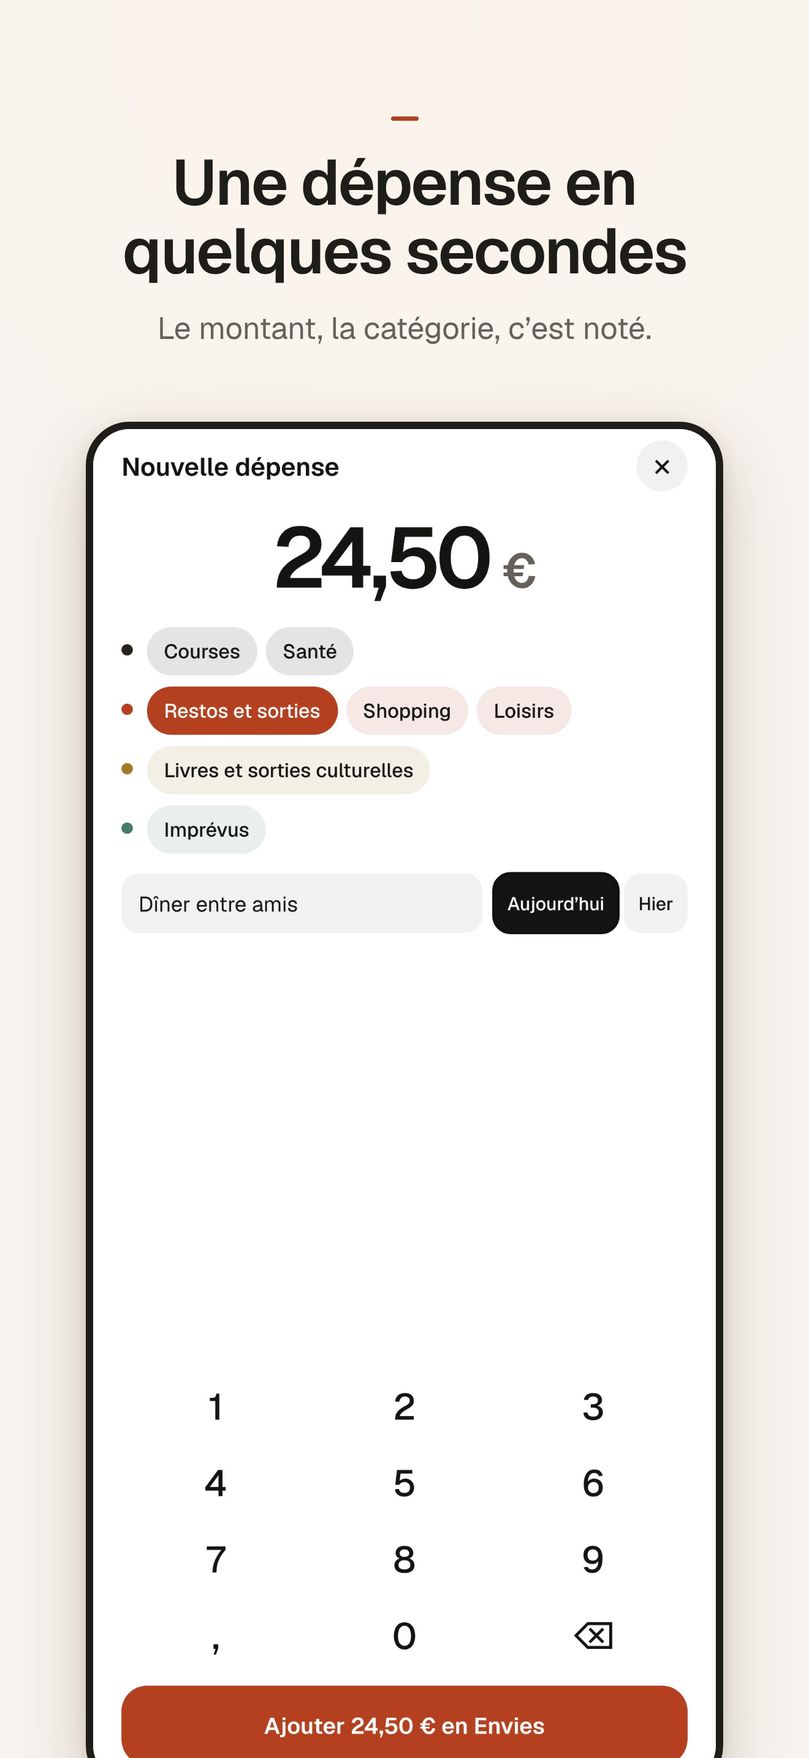
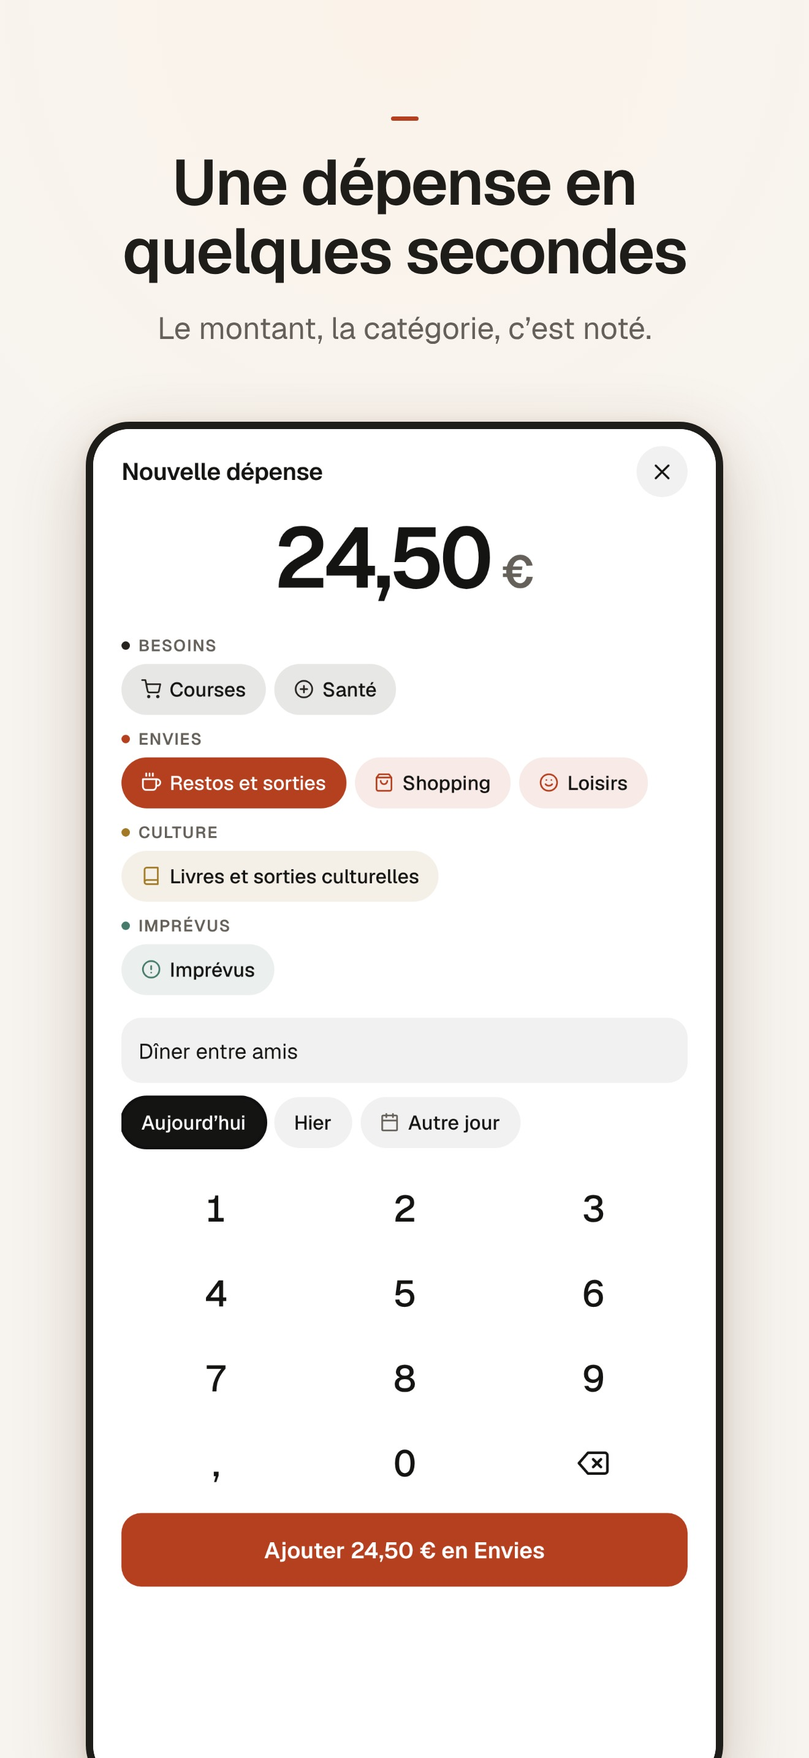
Documentation et captures : sauvegarde, fiabilité, statut de l'audit, fiches des stores, nouvelles captures
Claude-Session: https://claude.ai/code/session_01KjhfjXB1He58QrU5LuyAPP

diff --git a/store/texts.js b/store/texts.js
@@ -7,36 +7,40 @@ const description = `Nokori vous dit ce qu’il vous reste vraiment à dépenser
 Nokori suit la méthode kakeibo, le carnet de comptes japonais : chaque dépense va dans l’un des quatre piliers, Besoins, Envies, Culture et Imprévus, et chaque mois se termine par quatre questions simples.
 
 LE BUDGET DU MOIS
-• Ce qu’il reste à dépenser, et combien par jour jusqu’à la fin du mois.
+• L’argent vraiment disponible, prélèvements à venir déduits, et combien par jour jusqu’à la fin du mois.
 • Une estimation de ce qui restera à la fin du mois si vous continuez au même rythme.
 • Les quatre piliers kakeibo, avec ce qui a été dépensé et ce qui reste pour chacun.
 
 UNE DÉPENSE EN QUELQUES SECONDES
 • Un pavé numérique, une catégorie, et c’est noté.
-• Aujourd’hui ou hier, avec un libellé si vous voulez.
-• « Annuler » juste après, en cas d’erreur.
+• Aujourd’hui, hier ou un autre jour, avec un libellé si vous voulez.
+• « Annuler » juste après, en cas d’erreur ; un montant inhabituel est signalé.
 
 LE CALENDRIER
-• Du mois dernier jusqu’à dans trois mois : la paie, le loyer, les abonnements et vos dépenses, jour par jour.
+• Deux ans en arrière, un an en avant : la paie, le loyer, les abonnements et vos dépenses, jour par jour.
 • Chaque mois a sa couleur, inspirée des saisons japonaises.
 
 L’ACTIVITÉ ET LES COMPTES
-• Toutes vos dépenses et charges passées, filtrées par pilier.
+• Tout l’historique, mois par mois, avec une recherche et des filtres par pilier.
+• Une dépense se modifie ou se supprime, avec « Annuler ».
 • Les dépenses qui reviennent souvent sont repérées.
 • Les soldes de vos comptes, saisis à la main : compte courant, livrets, placements, espèces.
 
 VOS OBJECTIFS
 • Un voyage, une voiture, une épargne de précaution : Nokori calcule la date d’arrivée et la recalcule à chaque dépense.
+• Chaque versement noté, avec sa date, et le versement du mois suivi.
 • Des défis kakeibo : une semaine sans envies, des jours sous le budget du jour.
 
 LE BILAN DU MOIS
 • Combien ai-je reçu ? Combien voulais-je épargner ? Combien ai-je dépensé ? Comment faire mieux ?
+• La comparaison avec le mois précédent et les dépenses par catégorie, calculées sur vos saisies.
 • Le mois écoulé se revoit en story, en cinq écrans.
 
 VOS DONNÉES RESTENT SUR VOTRE TÉLÉPHONE
 • Aucun compte à créer, aucune banque à connecter, aucun serveur.
 • Tout est enregistré dans une base chiffrée, sur votre téléphone uniquement.
 • Verrouillage par Face ID, Touch ID ou empreinte, et montants masquables pour ouvrir l’app en public.
+• Une sauvegarde chiffrée par une phrase secrète, pour changer de téléphone sans rien perdre.
 • Sans publicité et sans pistage.
 • Des rappels avant chaque prélèvement, sans aucun montant dans la notification.
 

diff --git a/store/seed.js b/store/seed.js
@@ -1,4 +1,4 @@
-// Données d'exemple des captures d'écran : un mois de novembre 2026 crédible, figé au 14.
+// Données d'exemple des captures d'écran des stores uniquement (jamais dans l'app) : septembre à novembre 2026, figé au 14 novembre.
 module.exports = {
   v: 1, dismissed: [], notes: { '2026-10': 'Cuisiner le dimanche pour la semaine' },
   prefs: { theme: 'auto', lock: true, hideAmounts: false, alerts: true },
@@ -15,6 +15,12 @@ module.exports = {
     ],
   },
   expenses: [
+    { id: 's1', date: '2026-09-05', label: 'Courses', categoryId: 'courses', amount: 9150 },
+    { id: 's2', date: '2026-09-12', label: 'Restaurant', categoryId: 'restos', amount: 6400 },
+    { id: 's3', date: '2026-09-14', label: 'Courses', categoryId: 'courses', amount: 8820 },
+    { id: 's4', date: '2026-09-20', label: 'Concert', categoryId: 'culture', amount: 4500 },
+    { id: 's5', date: '2026-09-26', label: 'Courses', categoryId: 'courses', amount: 7930 },
+    { id: 's6', date: '2026-09-28', label: 'Chaussures', categoryId: 'shopping', amount: 8900 },
     { id: 'o1', date: '2026-10-03', label: 'Courses', categoryId: 'courses', amount: 8240 },
     { id: 'o2', date: '2026-10-08', label: 'Pharmacie', categoryId: 'sante', amount: 1290 },
     { id: 'o3', date: '2026-10-10', label: 'Courses', categoryId: 'courses', amount: 7615 },

diff --git a/store/raw.js b/store/raw.js
@@ -31,7 +31,7 @@ const out = n => path.join(__dirname, 'raw', `${theme}-${n}.png`);
   await p.getByRole('tab', { name: /Objectifs/ }).click(); await W(600);
   await shot('4-objectifs');
   await p.getByRole('tab', { name: /Bilan/ }).click(); await W(500);
-  await p.getByRole('tab', { name: 'Octobre' }).click(); await W(500);
+  await p.getByRole('button', { name: 'Bilan : mois d’avant' }).click(); await W(500);
   await shot('5-bilan');
   await p.getByRole('tab', { name: /Comptes/ }).click(); await W(600);
   await shot('6-comptes');

diff --git a/SECURITY.md b/SECURITY.md
@@ -22,6 +22,21 @@ Nokori est une app de suivi de budget **manuelle** : elle ne se connecte à aucu
 | Notifications lues sur l’écran verrouillé | Les rappels de prélèvement ne contiennent **aucun montant**. |
 | Fuite par le réseau | L’app ne fait aucun appel réseau, un test le vérifie à chaque lancement. Sur Android, les versions distribuées n’ont même pas la permission Internet. |
 
+## Sauvegarde chiffrée
+
+- **Fichier** : créé seulement quand l’utilisateur le demande (Réglages › Sauvegarde et restauration), proposé par la feuille de partage du téléphone, puis effacé du cache de l’app. Nokori ne l’envoie nulle part.
+- **Chiffrement** : clé dérivée de la phrase secrète par scrypt (N = 2^15, r = 8, p = 1 ; sel aléatoire de 16 octets), données chiffrées en AES-256-GCM (nonce aléatoire de 12 octets). L’en-tête (version, paramètres, date) est authentifié : toute modification du fichier est détectée. Bibliothèques `@noble/hashes` et `@noble/ciphers` 2.4.0, versions figées, auditées par Cure53, sans dépendance ni code natif.
+- **Phrase secrète** : 8 caractères au moins, jamais enregistrée. Perdue, la sauvegarde ne peut plus être ouverte.
+- **Restauration** : le fichier est vérifié avant tout calcul (format, version, paramètres bornés pour éviter un épuisement de mémoire), puis chaque donnée est validée comme au démarrage. Un résumé est affiché et l’utilisateur confirme avant le remplacement. Le verrouillage et les rappels sont désactivés après restauration, car ils dépendent du téléphone.
+- **Tests** : `src/domain/__tests__/backup.test.ts` (13 tests : aller-retour, mauvaise phrase, octet modifié, en-tête trafiqué, faux fichier, version future, paramètres démesurés) et `e2e/backup.e2e.js` (parcours complet dans le navigateur).
+
+## Fiabilité des données
+
+- **Lecture** : trois cas distincts. Rien d’enregistré (premier lancement), données relues, ou données illisibles (fichier abîmé, version plus récente de l’app). Dans le dernier cas, rien n’est réécrit : une copie est gardée et l’utilisateur choisit (restaurer une sauvegarde, réessayer après une mise à jour, ou repartir de zéro après confirmation).
+- **Stockage indisponible** (trousseau verrouillé, erreur SQLite) : écran « Réessayer » au lieu du questionnaire de départ. Avant ce correctif, répondre au questionnaire pouvait écraser toutes les données.
+- **Écritures** : en file, dans l’ordre ; un échec affiche un bandeau. Double appui sans effet.
+- **SQLCipher** : `PRAGMA temp_store = MEMORY` (pas de fichier temporaire de tri sur le disque) et `PRAGMA secure_delete = ON` (le contenu effacé est réellement écrasé).
+
 ## Ce qui est vérifié automatiquement
 
 `src/__tests__/security.test.js` échoue si le code contient :
@@ -39,11 +54,13 @@ Il vérifie aussi la clé liée à l’appareil, le refus d’écrire sans chiff
 - **Dépendances** (`npm audit`) : 3 alertes modérées, toutes dans `minimatch` via `@expo/fingerprint`, un outil de compilation qui n’est pas embarqué dans l’app.
 - **Secrets** : aucune clé ni aucun mot de passe dans le code ou la configuration.
 - **Android** (vérifié par prebuild) : `READ_EXTERNAL_STORAGE`, `WRITE_EXTERNAL_STORAGE` et `SYSTEM_ALERT_WINDOW` sont retirées. Restent la biométrie (`USE_BIOMETRIC`, `USE_FINGERPRINT`), `VIBRATE`, les notifications (ajoutée par la bibliothèque) et `INTERNET`, qu’Expo ajoute par défaut et dont la version de développement a besoin pour se connecter à l’ordinateur. `allowBackup="false"`. Dans les versions bêta (`preview`) et stores (`production`), `app.config.js` retire aussi `INTERNET` : l’app ne peut matériellement pas accéder au réseau (vérifié par prebuild et par un test).
-- **iOS** (vérifié par prebuild) : le texte d’autorisation Face ID est présent. `PrivacyInfo.xcprivacy` déclare l’absence de suivi et de données collectées. `ITSAppUsesNonExemptEncryption` vaut `false`.
+- **Modules de fichiers** (sauvegarde) : le prebuild de production du 15 novembre 2026 confirme que `expo-document-picker`, `expo-sharing` et `expo-file-system` n’ajoutent aucune permission Android restante : `INTERNET`, `READ_EXTERNAL_STORAGE` et `WRITE_EXTERNAL_STORAGE` sont retirées. `expo-file-system` embarque son propre manifeste de confidentialité iOS.
+- **iOS** (vérifié par prebuild) : application pour iPhone uniquement (`TARGETED_DEVICE_FAMILY = 1`). Le texte d’autorisation Face ID est présent. `PrivacyInfo.xcprivacy` déclare l’absence de suivi et de données collectées. `ITSAppUsesNonExemptEncryption` vaut `false`.
 
 ## Points à confirmer avant publication
 
 - **Chiffrement et export.** Nokori n’utilise le chiffrement que pour protéger ses propres données sur le téléphone, avec un algorithme standard. C’est en principe une utilisation exemptée de déclaration d’export aux États-Unis, d’où `usesNonExemptEncryption: false`. App Store Connect pose aussi une question sur la distribution en **France** : la même exemption s’applique en général aux usages de protection des données, mais à relire au moment de remplir le formulaire.
+- **SQLCipher sur un vrai téléphone.** Le chiffrement ne se vérifie que sur une version compilée (EAS Build) : au lancement, aucun avertissement « SQLCipher absent » ne doit apparaître, et l’app refuse d’écrire sans chiffrement. À contrôler une fois sur iPhone et sur Android (voir docs/BETA.md).
 - **Version web.** C’est une version de test, à partager avec des testeurs, pas une version publique. Elle n’a ni serveur ni accès réseau : les données restent dans le navigateur de chacun, mais en clair (`localStorage`), sans verrouillage ni rappels. Elle le dit dès le premier écran et dans les réglages, et demande aux moteurs de recherche de ne pas l’indexer (`noindex`). Pour de vrais chiffres, l’app pour téléphone reste la référence.
 
 ## Signaler un problème

diff --git a/store/FICHES.md b/store/FICHES.md
@@ -34,43 +34,47 @@ Nokori : budget kakeibo
 
 Ce qu’il vous reste à dépenser, au jour près. Vos données restent chez vous.
 
-## Description complète, commune aux deux stores (2282 caractères sur 4000)
+## Description complète, commune aux deux stores (2702 caractères sur 4000)
 
 Nokori vous dit ce qu’il vous reste vraiment à dépenser ce mois-ci, au jour près. Vos charges fixes et votre épargne sont déjà retirées : le chiffre que vous voyez est celui que vous pouvez dépenser.
 
 Nokori suit la méthode kakeibo, le carnet de comptes japonais : chaque dépense va dans l’un des quatre piliers, Besoins, Envies, Culture et Imprévus, et chaque mois se termine par quatre questions simples.
 
 LE BUDGET DU MOIS
-• Ce qu’il reste à dépenser, et combien par jour jusqu’à la fin du mois.
+• L’argent vraiment disponible, prélèvements à venir déduits, et combien par jour jusqu’à la fin du mois.
 • Une estimation de ce qui restera à la fin du mois si vous continuez au même rythme.
 • Les quatre piliers kakeibo, avec ce qui a été dépensé et ce qui reste pour chacun.
 
 UNE DÉPENSE EN QUELQUES SECONDES
 • Un pavé numérique, une catégorie, et c’est noté.
-• Aujourd’hui ou hier, avec un libellé si vous voulez.
-• « Annuler » juste après, en cas d’erreur.
+• Aujourd’hui, hier ou un autre jour, avec un libellé si vous voulez.
+• « Annuler » juste après, en cas d’erreur ; un montant inhabituel est signalé.
 
 LE CALENDRIER
-• Du mois dernier jusqu’à dans trois mois : la paie, le loyer, les abonnements et vos dépenses, jour par jour.
+• Deux ans en arrière, un an en avant : la paie, le loyer, les abonnements et vos dépenses, jour par jour.
 • Chaque mois a sa couleur, inspirée des saisons japonaises.
 
 L’ACTIVITÉ ET LES COMPTES
-• Toutes vos dépenses et charges passées, filtrées par pilier.
+• Tout l’historique, mois par mois, avec une recherche et des filtres par pilier.
+• Une dépense se modifie ou se supprime, avec « Annuler ».
 • Les dépenses qui reviennent souvent sont repérées.
 • Les soldes de vos comptes, saisis à la main : compte courant, livrets, placements, espèces.
 
 VOS OBJECTIFS
 • Un voyage, une voiture, une épargne de précaution : Nokori calcule la date d’arrivée et la recalcule à chaque dépense.
+• Chaque versement noté, avec sa date, et le versement du mois suivi.
 • Des défis kakeibo : une semaine sans envies, des jours sous le budget du jour.
 
 LE BILAN DU MOIS
 • Combien ai-je reçu ? Combien voulais-je épargner ? Combien ai-je dépensé ? Comment faire mieux ?
+• La comparaison avec le mois précédent et les dépenses par catégorie, calculées sur vos saisies.
 • Le mois écoulé se revoit en story, en cinq écrans.
 
 VOS DONNÉES RESTENT SUR VOTRE TÉLÉPHONE
 • Aucun compte à créer, aucune banque à connecter, aucun serveur.
 • Tout est enregistré dans une base chiffrée, sur votre téléphone uniquement.
 • Verrouillage par Face ID, Touch ID ou empreinte, et montants masquables pour ouvrir l’app en public.
+• Une sauvegarde chiffrée par une phrase secrète, pour changer de téléphone sans rien perdre.
 • Sans publicité et sans pistage.
 • Des rappels avant chaque prélèvement, sans aucun montant dans la notification.
 

diff --git a/docs/AUDIT.md b/docs/AUDIT.md
@@ -73,3 +73,29 @@ Priorités : **P0** perte de données, faille de sécurité ou chiffre faux affi
 - **Couleurs hors palette** : 11 valeurs hexadécimales et 8 valeurs rgba codées en dur, dont l’ancien vermillon `rgba(188,68,35,…)` à 7 endroits. `MonthStory` et le sceau d’épargne utilisent la palette claire même en mode sombre.
 - **Animations** : un seul effet animé (l’éclat du pilier, sans pilote natif). Les éditeurs, les confirmations, le toast et les barres de progression apparaissent ou changent d’un coup.
 - **Icônes** : Feather à 3 endroits seulement ; ailleurs, des caractères texte sans police définie.
+
+## 7. Statut au 15 novembre 2026, après corrections
+
+| # | Statut | Ce qui a été fait |
+| --- | --- | --- |
+| D1 | Corrigé | Écran « Réessayer » à la place de l’accueil ; aucune écriture tant que rien n’est chargé (`state/AppState.tsx`, `ui/DataProblem.tsx`). |
+| D2 | Corrigé | Lecture en trois états ; donnée illisible copiée à part, jamais écrasée ; version future refusée (`data/persist.ts`). |
+| D3 | Corrigé | Boutons bloqués pendant l’enregistrement, identifiant déjà présent ignoré, écritures en file. |
+| D4 | Corrigé | Mois des charges annuelles et échéance des charges à 4 semaines conservés (`domain/onboarding.ts`). |
+| D5 | Corrigé | Historique du profil par mois, utilisé par le bilan, le calendrier et l’activité (`domain/history.ts`). |
+| D6 | Corrigé | Sauvegarde chiffrée, restauration depuis les réglages et dès l’accueil d’un nouveau téléphone. |
+| D7 | Restant | Un seul bloc JSON : suffisant pour plusieurs années de saisie (50 000 dépenses relues au plus). À revoir si besoin. |
+| S1 | Corrigé | Verrou enclenché dès l’ouverture, Face ID demandé tout de suite (`ui/LockGate.tsx`). |
+| S2 | Corrigé | Masquage centralisé (`ui/money.tsx`) : tous les écrans, la story comprise ; vérifié par un test de bout en bout. |
+| S3 | Corrigé | `temp_store = MEMORY`, `secure_delete = ON`. |
+| S5 | Restant | Vérification de SQLCipher sur un vrai téléphone (version compilée) : à faire à la main. |
+| C1 | Corrigé | Le grand chiffre est l’argent disponible, prélèvements à venir déduits. |
+| C2 | Corrigé | « Budget dépassé de … », 0 € par jour. |
+| C3 | Corrigé | Projection complétée par le rythme prévu les 7 premiers jours, marquée « estimation ». |
+| C4 | Restant | Budget au mois civil (choix kakeibo) ; « autres revenus » conservés mais pas encore saisissables. |
+| F1 | Corrigé | Activité mois par mois depuis la première dépense, recherche, modification, suppression annulable. |
+| F2 | Corrigé | Calendrier de −24 à +12 mois, bouton « Revenir à aujourd’hui ». |
+| F3 | Corrigé | Bilan de n’importe quel mois, comparaison au même jour avec le mois précédent, dépenses par catégorie. |
+| F4 | Corrigé | Historique des versements, versement du mois, paliers. |
+| F5 | Corrigé | Date jusqu’à 62 jours en arrière, montant inhabituel signalé. |
+| U1 à U5 | Corrigé | Système de design (`theme/tokens.ts`) et composants communs (`ui/kit.tsx`) sur tous les écrans ; icônes Feather ; aplats de couleur ; état de chargement ; confirmations animées. |

diff --git a/README.md b/README.md
@@ -30,7 +30,7 @@ npm run e2e        # parcours complets dans la version web : accueil, dépense, 
 | `src/state` | État de l'app et enregistrement automatique |
 | `src/domain/__tests__` | Tests du moteur |
 | `src/theme` | Palettes claire et sombre, contexte de thème, typographie |
-| `src/ui` | Composants : carte du mois, liste des piliers |
+| `src/ui` | Composants communs (`kit.tsx` : boutons, cartes, lignes, puces, onglets, états vides, toasts), carte du mois, piliers, calendrier, verrou, affichage des montants (`money.tsx`) |
 | `src/screens` | Écrans |
 | `e2e` | Captures et tests dans la version web |
 | `store` | Fiches des stores (`texts.js`, `FICHES.md`), captures d’écran et leurs scripts |
@@ -90,4 +90,7 @@ Le chiffrement SQLCipher n'existe pas dans Expo Go : pour tester la vraie app, i
 - [x] 11b : accessibilité : audit automatique de 26 écrans, contrastes renforcés (teintes de 7 mois, vermillon, texte secondaire), noms des boutons, story sans défilement automatique pour VoiceOver/TalkBack et « Réduire les animations », grands chiffres plafonnés
 - [x] 11c : préparation de la bêta : `eas.json` (développement, bêta interne, stores), icône et écran de démarrage 残, permission Internet retirée des versions distribuées sur Android, politique de confidentialité et conditions ([docs/](docs)), guide [docs/BETA.md](docs/BETA.md)
 - [x] 12 : publication préparée : textes des fiches App Store et Google Play (limites vérifiées par un test), fiche App Store envoyée par `eas metadata:push` (`store.config.js`), 6 captures iPhone et Android, image de présentation, page d’assistance, guide [docs/PUBLICATION.md](docs/PUBLICATION.md). App réglée pour iPhone seulement. Une base restaurée par iCloud sans sa clé ne bloque plus l’app
+- [x] 13 : audit complet ([docs/AUDIT.md](docs/AUDIT.md)) et corrections : plus aucun risque d’écrasement des données au démarrage, verrou Face ID au démarrage, montant disponible juste, historique du profil, masquage de tous les montants
+- [x] 14 : sauvegarde chiffrée (phrase secrète, scrypt + AES-256-GCM), restauration depuis les réglages ou dès l’accueil d’un nouveau téléphone
+- [x] 15 : refonte de l’interface (système de design, composants communs, icônes) et nouvelles fonctions : historique complet et recherche, modification d’une dépense, suppression annulable, calendrier libre, bilan comparé et par catégorie, historique des versements
 - [ ] Sortie : comptes, pages publiques, envoi aux stores (à faire par vous, voir docs/PUBLICATION.md)

diff --git a/docs/confidentialite.md b/docs/confidentialite.md
@@ -13,7 +13,7 @@ Nokori est une application de suivi de budget. Elle est éditée par **[votre no
 Vos revenus, charges fixes, dépenses, soldes de comptes, objectifs d’épargne, notes et réglages sont enregistrés **uniquement sur votre téléphone**, dans une base chiffrée (AES-256). La clé de chiffrement est conservée dans le trousseau sécurisé du téléphone et n’en sort jamais.
 
 - Ces données ne sont envoyées à aucun serveur : l’application ne communique pas avec Internet.
-- La clé qui les déchiffre ne quitte jamais votre téléphone, ni dans les sauvegardes iCloud ou Google, ni ailleurs : une sauvegarde ne permet pas de les relire sur un autre appareil. Si vous changez de téléphone, elles ne suivent pas.
+- La clé qui les déchiffre ne quitte jamais votre téléphone, ni dans les sauvegardes iCloud ou Google, ni ailleurs : une sauvegarde ne permet pas de les relire sur un autre appareil. Pour changer de téléphone, utilisez la sauvegarde chiffrée (ci-dessous).
 - Nokori ne se connecte à aucune banque et ne déplace pas d’argent.
 
 ## Ce que nous ne faisons pas
@@ -24,6 +24,7 @@ Vos revenus, charges fixes, dépenses, soldes de comptes, objectifs d’épargne
 
 ## Autorisations demandées
 
+- **Fichiers** (facultatif) : seulement quand vous créez ou restaurez une sauvegarde. Le fichier de sauvegarde est chiffré par une phrase secrète que vous choisissez ; c’est vous qui décidez où le ranger (Fichiers, iCloud Drive, Google Drive, ordinateur…). Nous ne le recevons jamais et ne pouvons pas l’ouvrir.
 - **Face ID / Touch ID / empreinte** (facultatif) : pour verrouiller l’application. La reconnaissance est faite par le téléphone. Nokori reçoit seulement la réponse « reconnu » ou « non reconnu ».
 - **Notifications** (facultatif) : pour vous rappeler un prélèvement à venir. Les rappels sont programmés sur le téléphone et ne contiennent aucun montant.
 

diff --git a/docs/assistance.md b/docs/assistance.md
@@ -14,7 +14,10 @@ Une question, un problème, une idée ? Écrivez à **[adresse e-mail de contact
 Non. Nokori n’a pas de serveur et ne se connecte à aucune banque. Tout reste sur votre téléphone, dans une base chiffrée.
 
 **J’ai changé de téléphone : comment retrouver mes données ?**
-Ce n’est pas possible dans cette version. Les données sont chiffrées avec une clé qui ne quitte jamais l’ancien téléphone : même une sauvegarde iCloud ou Google ne permet pas de les relire ailleurs. Il faut ressaisir son budget sur le nouveau téléphone, ce qui prend quelques minutes.
+Avec la sauvegarde chiffrée. Sur l’ancien téléphone : Réglages › Sauvegarde et restauration › Créer une sauvegarde, puis rangez le fichier (iCloud Drive, Google Drive, e-mail à vous-même…). Sur le nouveau : installez Nokori, touchez « J’ai déjà une sauvegarde Nokori », choisissez le fichier et entrez votre phrase secrète.
+
+**J’ai oublié ma phrase secrète.**
+Personne ne peut ouvrir la sauvegarde sans elle, pas même nous : c’est ce qui la protège. Créez une nouvelle sauvegarde depuis le téléphone qui a encore vos données.
 
 **Comment tout effacer ?**
 Réglages › Tout effacer. Désinstaller l’app efface aussi tout.

diff --git a/docs/BETA.md b/docs/BETA.md
@@ -79,7 +79,9 @@ npx expo start --dev-client
 4. **VoiceOver / TalkBack** : faites le tour des 5 onglets, ajoutez une dépense, ouvrez la story du mois.
 5. **Texte très grand** : réglez la taille du texte au maximum. Rien ne doit être coupé ni se chevaucher.
 6. **Mode sombre** : passez le téléphone en sombre avec le thème « Auto ».
-7. **Tout effacer** : l’app revient à l’accueil, sans aucune donnée.
+7. **Sauvegarde** : Réglages › Sauvegarde et restauration › Créer une sauvegarde. La feuille de partage s’ouvre ; enregistrez le fichier dans Fichiers ou Drive.
+8. **Tout effacer** : l’app revient à l’accueil, sans aucune donnée.
+9. **Restauration** : à l’accueil, « J’ai déjà une sauvegarde Nokori », choisissez le fichier, entrez la phrase secrète. Tout revient. Faites-le aussi sur un second téléphone, si possible de l’autre système (iPhone vers Android).
 
 ## 4. Bêta iPhone avec TestFlight
 
